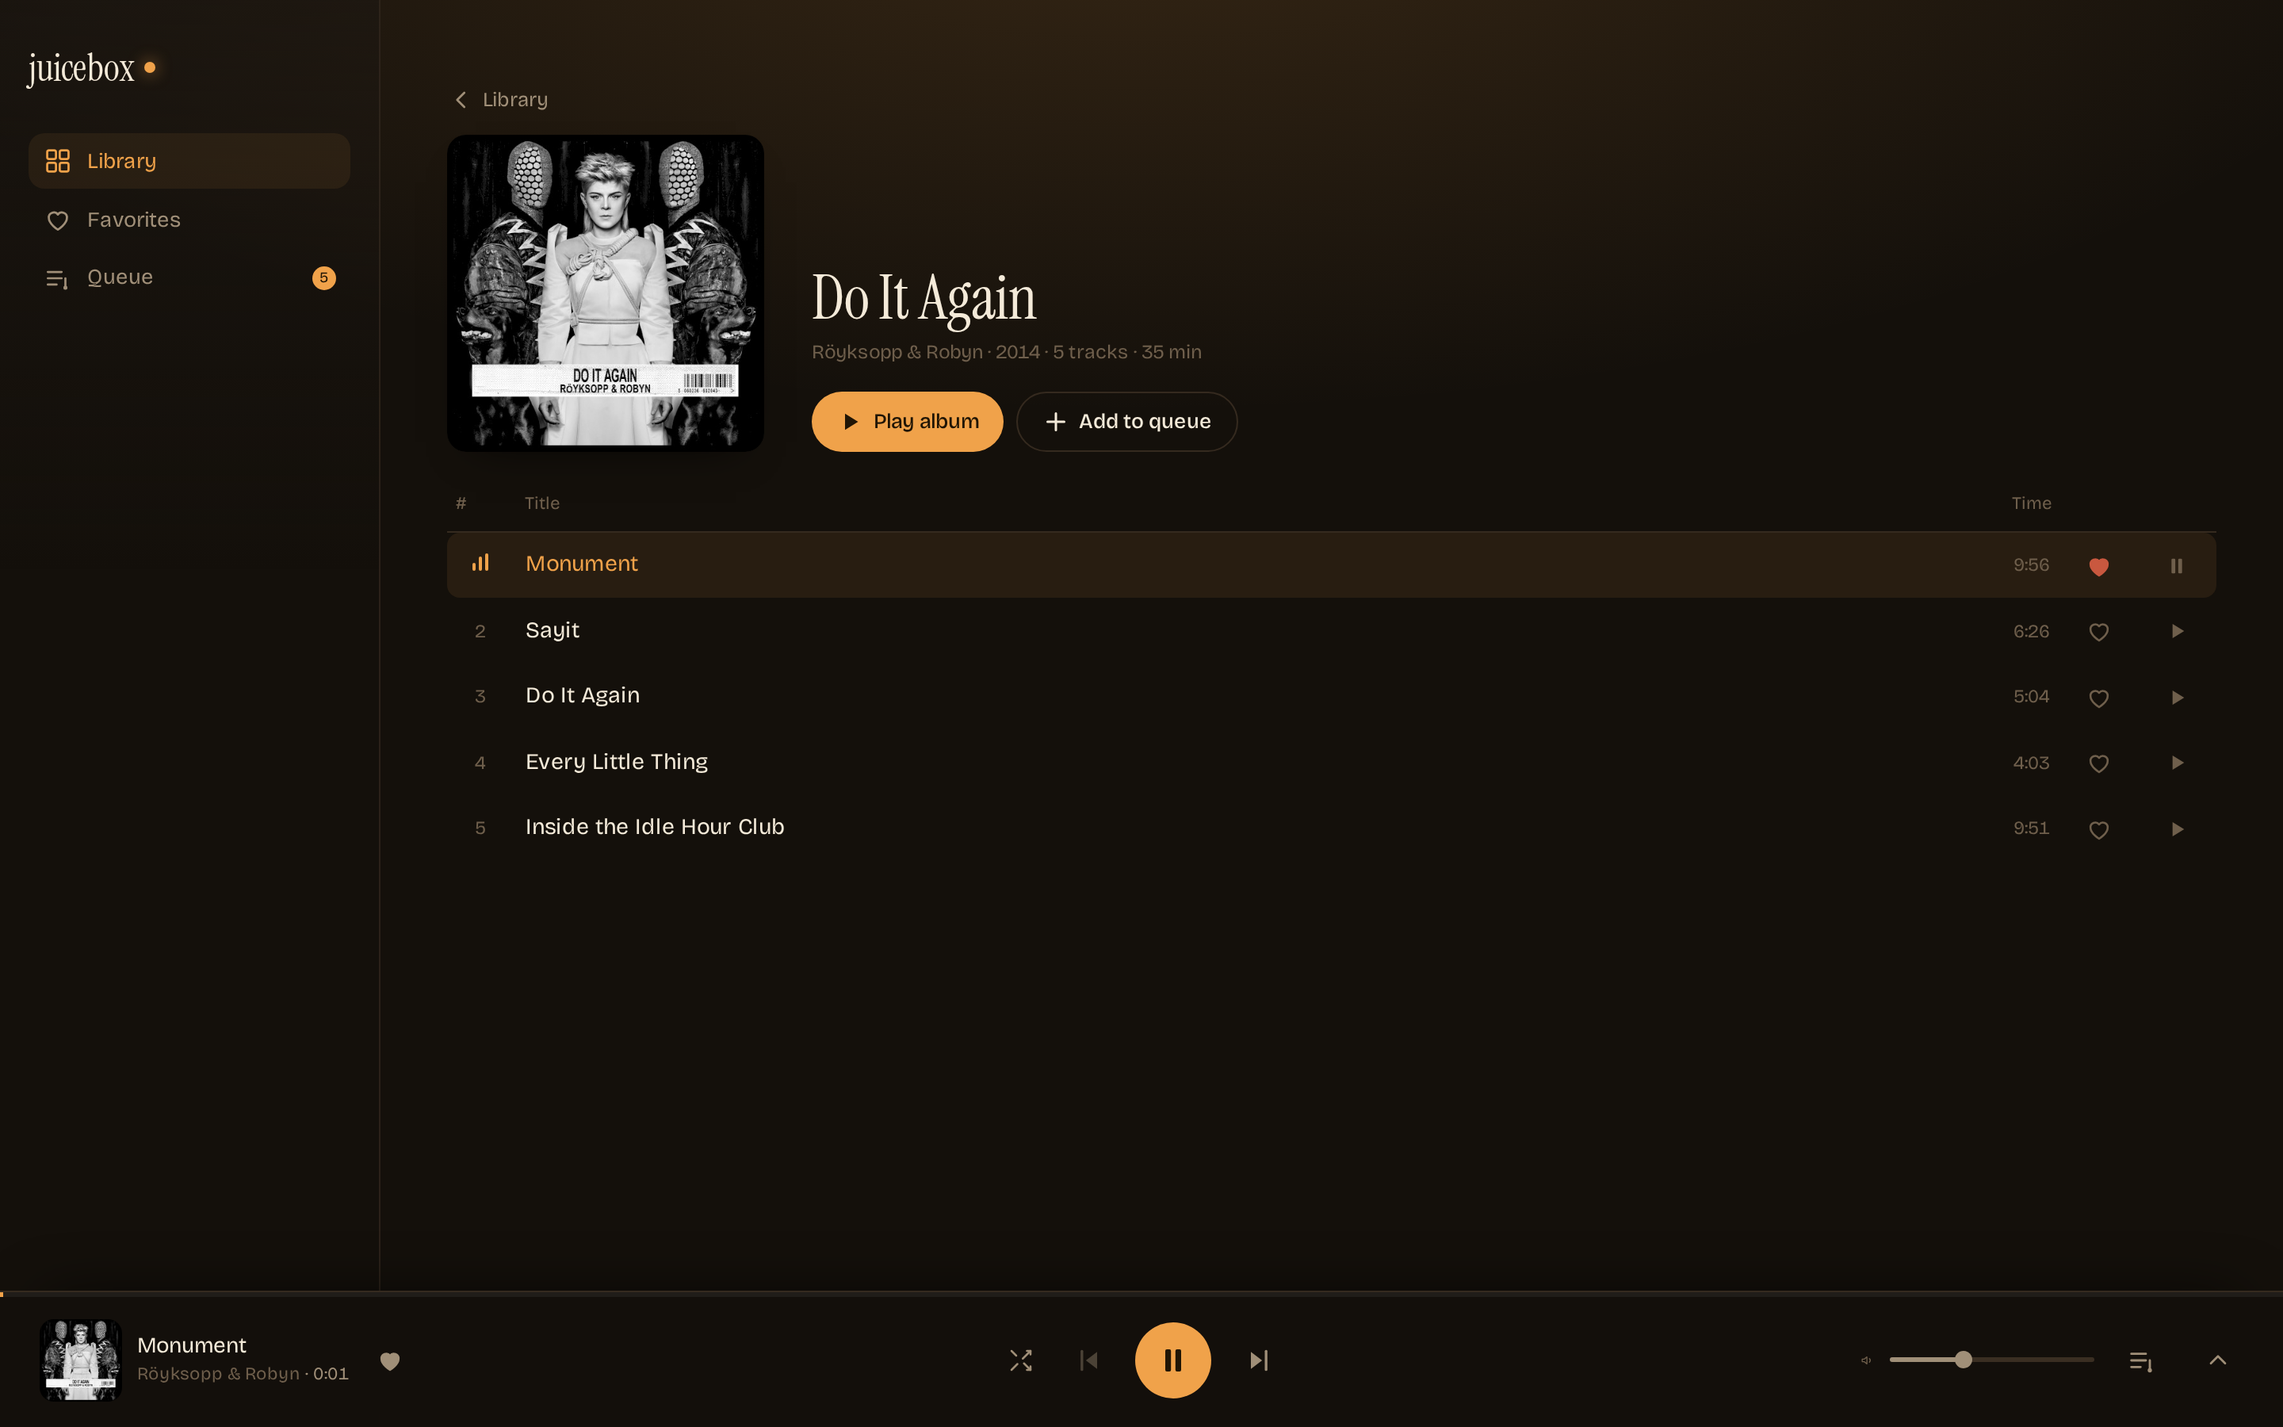
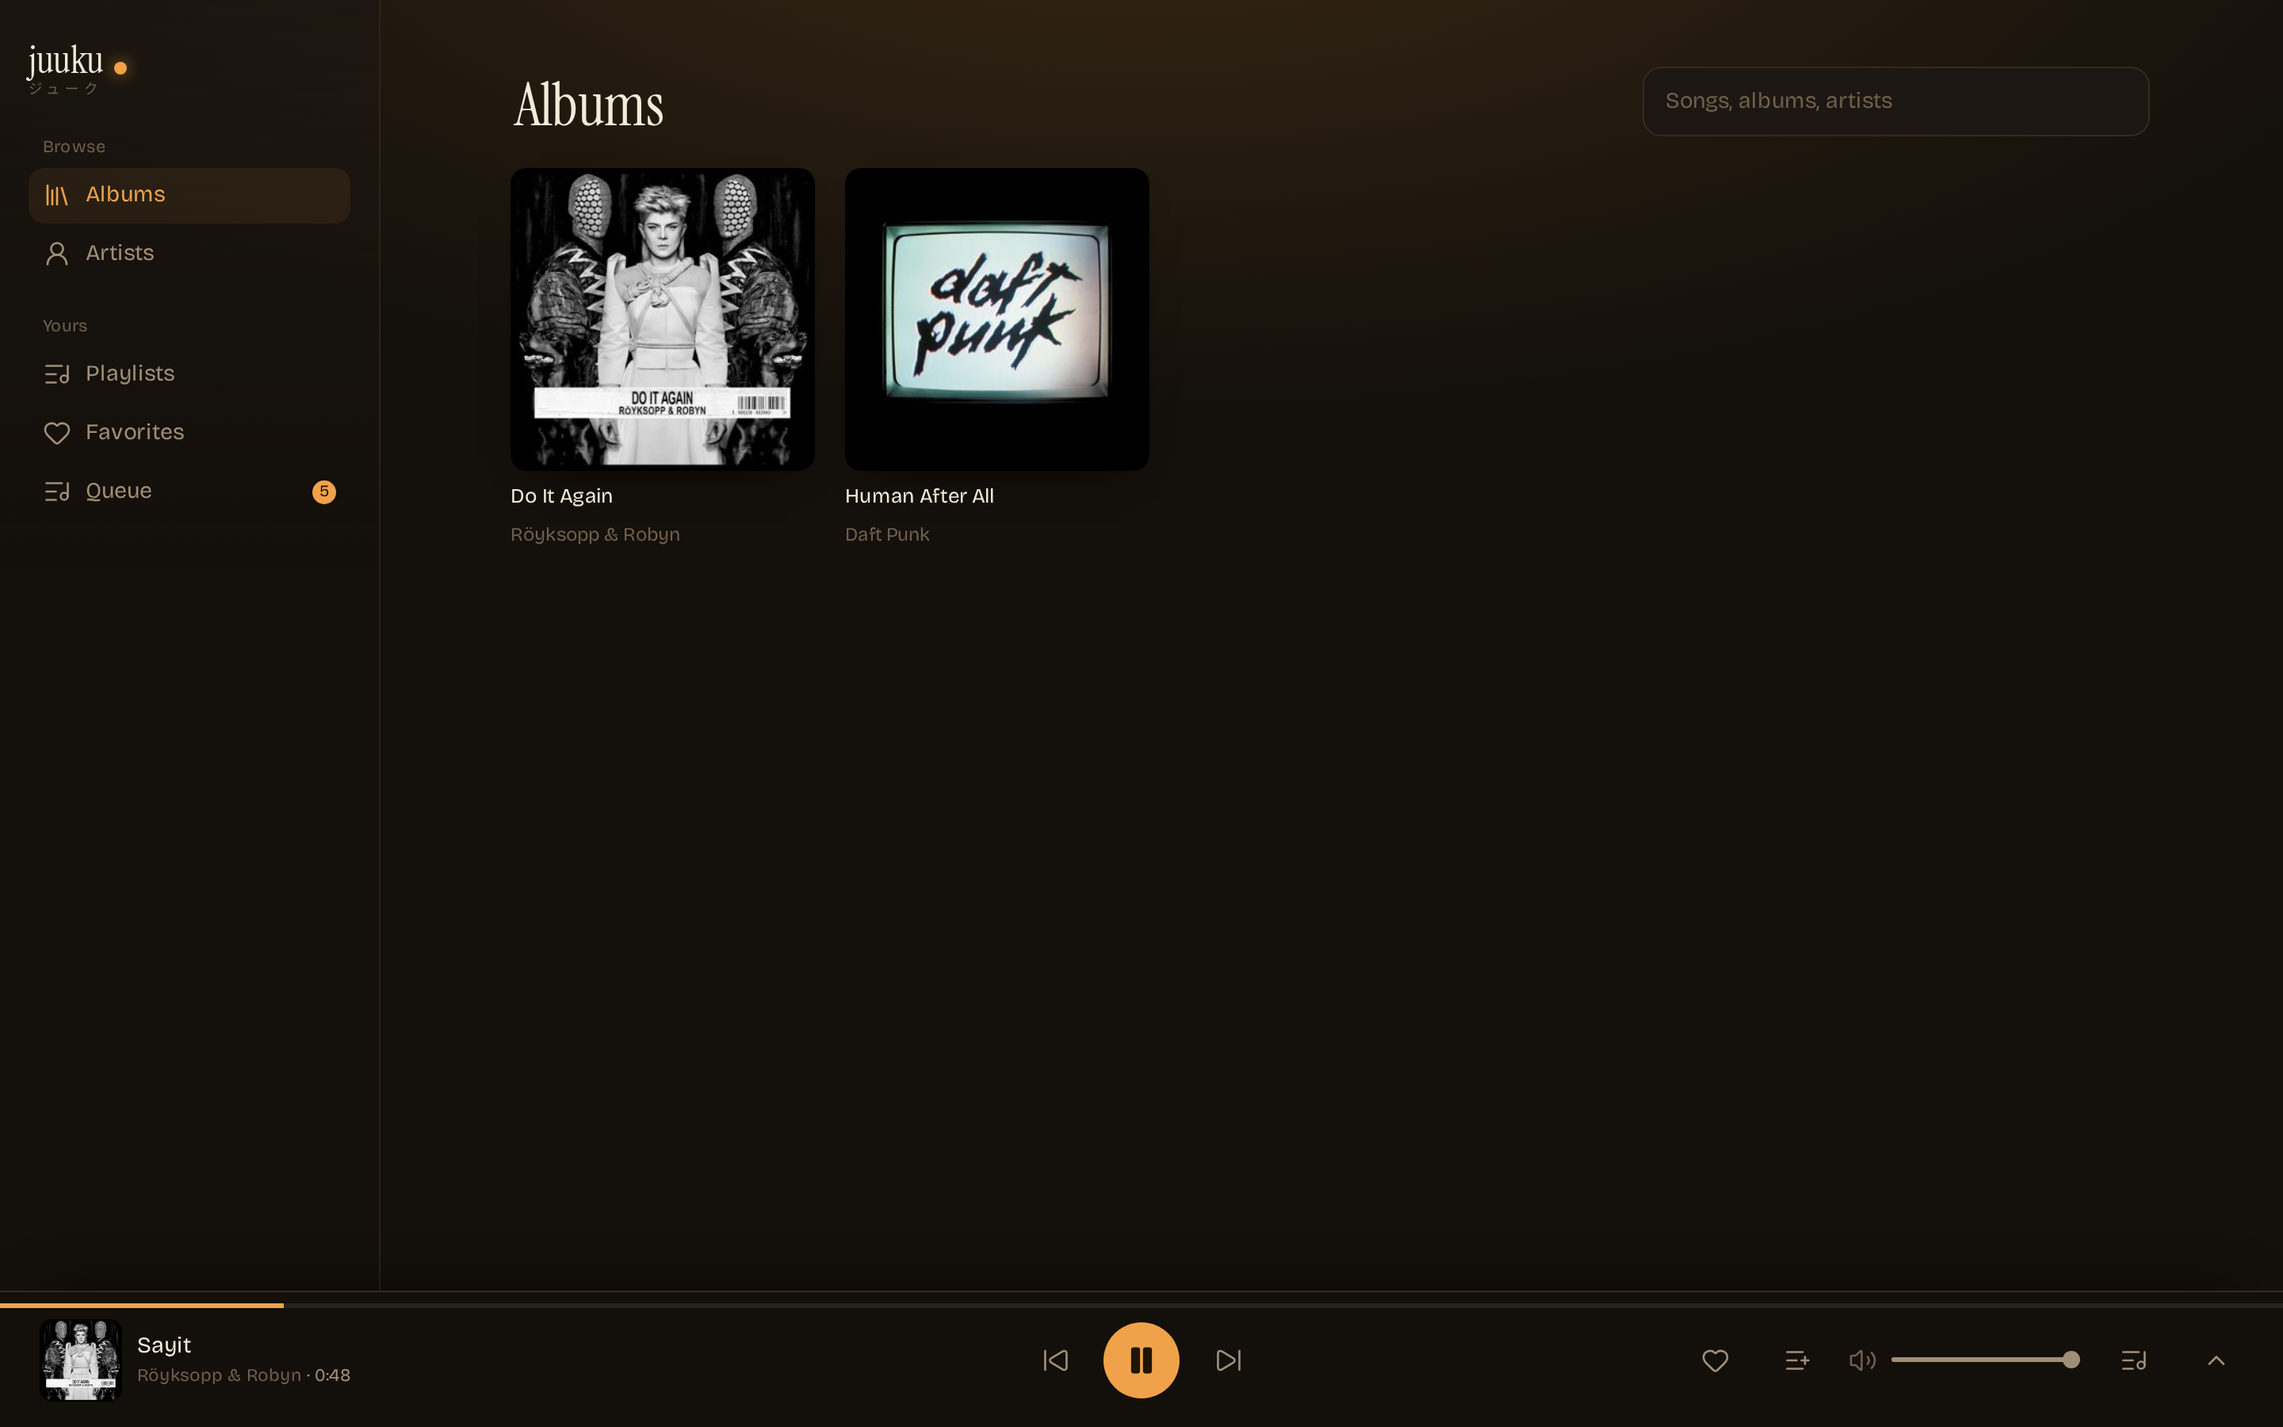
Rename to Juuku (ジューク)
Package, docs, scripts, compose project/container names, and the wordmark: latin
name over small letterspaced kana. Sandbox rebuilt under the new compose project
with a fresh admin password. The Pi user stays 'juicebox' - it exists there and
renaming it would mean recreating it.

diff --git a/src/App.tsx b/src/App.tsx
@@ -98,7 +98,12 @@ export default function App() {
     <div className={`shell ${isPlayer ? 'shell-player' : ''} ${lyricsOpen ? 'lyrics-open' : ''}`}>
       <aside className="rail" aria-label="Main">
         <button className="wordmark" onClick={() => navigate('/library/albums')}>
-          juicebox
+          <span className="wordmark-stack">
+            <span className="wordmark-latin">juuku</span>
+            <span className="wordmark-kana" lang="ja">
+              ジューク
+            </span>
+          </span>
           <span className={`led ${jbox.error ? 'bad' : jbox.health?.ok ? 'good' : ''}`} />
         </button>
 
@@ -142,7 +147,12 @@ export default function App() {
         {!isPlayer && (
           <div className="topbar">
             <button className="wordmark small" onClick={() => navigate('/library/albums')}>
-              juicebox
+              <span className="wordmark-stack">
+                <span className="wordmark-latin">juuku</span>
+                <span className="wordmark-kana" lang="ja">
+                  ジューク
+                </span>
+              </span>
               <span className={`led ${jbox.error ? 'bad' : jbox.health?.ok ? 'good' : ''}`} />
             </button>
             <button className="icon-button" onClick={jbox.refresh} aria-label="Refresh state">

diff --git a/src/styles.css b/src/styles.css
@@ -276,13 +276,37 @@ h1.display {
   display: inline-flex;
   align-items: center;
   gap: 0.45rem;
-  font-family: 'Instrument Serif', Georgia, serif;
-  font-size: 1.6rem;
   letter-spacing: -0.01em;
 }
 
-.wordmark.small {
+.wordmark-stack {
+  display: flex;
+  flex-direction: column;
+  align-items: flex-start;
+  line-height: 1;
+}
+
+.wordmark-latin {
+  font-family: 'Instrument Serif', Georgia, serif;
   font-size: 1.6rem;
+}
+
+.wordmark-kana {
+  margin-top: 0.18rem;
+  font-family: 'Bricolage Grotesque', ui-sans-serif, sans-serif;
+  font-size: 0.58rem;
+  font-weight: 500;
+  letter-spacing: 0.34em;
+  color: var(--dim);
+}
+
+.wordmark.small .wordmark-latin {
+  font-size: 1.35rem;
+}
+
+.wordmark.small .wordmark-kana {
+  font-size: 0.52rem;
+  letter-spacing: 0.3em;
 }
 
 .led {

diff --git a/index.html b/index.html
@@ -5,7 +5,7 @@
     <link rel="icon" href="/favicon.svg" type="image/svg+xml" />
     <meta name="viewport" content="width=device-width, initial-scale=1.0, viewport-fit=cover" />
     <meta name="theme-color" content="#14100b" />
-    <title>Juicebox — Navidrome remote</title>
+    <title>Juuku — Navidrome remote</title>
     <meta name="description" content="Queue, skip and favorite music on the Navidrome jukebox that is playing in the room." />
   </head>
   <body>

diff --git a/src/useJukebox.ts b/src/useJukebox.ts
@@ -16,7 +16,7 @@ import {
 } from './api';
 
 const POLL_MS = 1000;
-const REPEAT_KEY = 'juicebox.repeat';
+const REPEAT_KEY = 'juuku.repeat';
 
 export type RepeatMode = 'off' | 'all' | 'one';
 

diff --git a/docs/SETUP.md b/docs/SETUP.md
@@ -5,7 +5,7 @@
 | Port | What | Bound to |
 | --- | --- | --- |
 | 4533 | throwaway Navidrome (docker) | `127.0.0.1` |
-| 3101 | Juicebox API (and the built UI after `npm run build`) | `127.0.0.1` |
+| 3101 | Juuku API (and the built UI after `npm run build`) | `127.0.0.1` |
 | 3100 | Vite dev server (proxies `/api` → 3101) | `127.0.0.1` |
 
 8080 is **not** free on this machine — the Ghosted dev site owns it. That is why the app sits on 3100 (the usual port convention here) and the API on 3101.
@@ -16,34 +16,34 @@
 
 Verified through a real external hop (the Pi on the same LAN): `:3100` and `:3101/api/health` both answer 200, so firewalld already allows both ports. If a port is ever closed: `sudo firewall-cmd --add-port=3100/tcp` (add `--permanent` to survive a reload).
 
-There is **no authentication** in front of Juicebox, so on the LAN anyone can play, skip and rewrite the queue, and `/api/*` is open. Fine for a home network while this is a POC; not something to expose to the internet. The committed `.env.example` keeps `HOST=127.0.0.1` for that reason.
+There is **no authentication** in front of Juuku, so on the LAN anyone can play, skip and rewrite the queue, and `/api/*` is open. Fine for a home network while this is a POC; not something to expose to the internet. The committed `.env.example` keeps `HOST=127.0.0.1` for that reason.
 
 ## Pointing at another Navidrome (e.g. the main library)
 
 Read-only is fine: a server with jukebox mode off answers 501 for `jukeboxControl`, and the app shows no queue instead of failing. Credentials stay out of git:
 
 ```sh
-NAVIDROME_URL=http://10.10.10.10:4533 NAVIDROME_USER=juicebox NAVIDROME_PASSWORD=… \
+NAVIDROME_URL=http://10.10.10.10:4533 NAVIDROME_USER=juuku NAVIDROME_PASSWORD=… \
   ./scripts/remote-instance.sh 3102
 ```
 
-Environment variables win over `.env`, so the sandbox on `:3100` keeps running unchanged. On the Pi the `juicebox` user was created with `docker exec -it navidrome /app/navidrome user create --username juicebox --name Juicebox` (no password flag - it prompts twice, so it needs a TTY). Playback through that instance would need `Jukebox.Enabled`, `mpv` and an audio device on the Pi first.
+Environment variables win over `.env`, so the sandbox on `:3100` keeps running unchanged. On the Pi the `juuku` user was created with `docker exec -it navidrome /app/navidrome user create --username juuku --name Juuku` (no password flag - it prompts twice, so it needs a TTY). Playback through that instance would need `Jukebox.Enabled`, `mpv` and an audio device on the Pi first.
 
 ## The throwaway Navidrome
 
 Never point development at the Pi instance. `docker-compose.yml` runs a separate Navidrome with jukebox enabled:
 
-- container `juicebox-navidrome`, project `juicebox`
+- container `juuku-navidrome`, project `juuku`
 - `Jukebox.Enabled=true`, `MPVCmdTemplate` with `--ao=pulse` (real audio, see below)
 - `Jukebox.AdminOnly=true`
 - `mpv` is already inside the `navidrome/navidrome` image — nothing to install
-- volumes: `juicebox_navidrome-data` (`/data`) and `juicebox_navidrome-music` (`/music`)
+- volumes: `juuku_navidrome-data` (`/data`) and `juuku_navidrome-music` (`/music`)
 
 ```sh
 ./scripts/sandbox-up.sh
 ```
 
-The script starts the container, seeds the music volume from `sandbox/music` if empty, creates the first admin (`admin` / `juicebox` by default, via `/auth/createAdmin` — that endpoint only exists while the user table is empty), and forces a scan.
+The script starts the container, seeds the music volume from `sandbox/music` if empty, creates the first admin (`admin` / `juuku` by default, via `/auth/createAdmin` — that endpoint only exists while the user table is empty), and forces a scan.
 
 `sandbox/music` is gitignored: it holds two albums copied from the Pi library (Daft Punk — *Human After All*, Röyksopp — *Do It Again*, 15 tracks). Replace or extend them and re-run the script; `docker compose down -v` resets both volumes.
 
@@ -71,11 +71,11 @@ Consequences:
 ```
 NAVIDROME_URL=http://127.0.0.1:4533
 NAVIDROME_USER=admin
-NAVIDROME_PASSWORD=juicebox
+NAVIDROME_PASSWORD=juuku
 PORT=3101
 ```
 
-The sandbox password is not a secret — the container is bound to loopback and holds two albums. A real instance needs a real credential and, if it is ever exposed beyond the LAN, real auth in front of Juicebox itself.
+The sandbox password is not a secret — the container is bound to loopback and holds two albums. A real instance needs a real credential and, if it is ever exposed beyond the LAN, real auth in front of Juuku itself.
 
 ## Environment traps found while building this
 
@@ -87,10 +87,10 @@ The sandbox password is not a secret — the container is bound to loopback and 
 ## Verifying the jukebox without the UI
 
 ```sh
-PASS=juicebox; salt=$(head -c 8 /dev/urandom | od -An -tx1 | tr -d ' \n')
+PASS=juuku; salt=$(head -c 8 /dev/urandom | od -An -tx1 | tr -d ' \n')
 token=$(printf '%s%s' "$PASS" "$salt" | md5sum | cut -d' ' -f1)
-AUTH="u=admin&t=$token&s=$salt&v=1.16.1&c=Juicebox&f=json"
+AUTH="u=admin&t=$token&s=$salt&v=1.16.1&c=Juuku&f=json"
 curl -s "http://127.0.0.1:4533/rest/jukeboxControl?$AUTH&action=status"
 ```
 
-If jukebox is wired up, `docker logs juicebox-navidrome` says "Starting playback server" and "Using audio device: auto".
+If jukebox is wired up, `docker logs juuku-navidrome` says "Starting playback server" and "Using audio device: auto".

diff --git a/README.md b/README.md
@@ -1,8 +1,10 @@
-# Juicebox
+# Juuku <sub>ジューク</sub>
+
+*Juuku* is a jukebox with the middle knocked out — `ジューク` is how Japanese shortens `ジュークボックス`, and it keeps the old juicebox/jukebox pun in six letters.
 
 Remote control for [Navidrome](https://www.navidrome.org/)'s **jukebox mode**: browse the library, queue music, skip, pause, favorite and set the volume on the box that actually has the speakers, from any browser on the network.
 
-Navidrome's own web UI cannot drive the jukebox — the feature is only reachable through the Subsonic `jukeboxControl` endpoint. Juicebox is that remote.
+Navidrome's own web UI cannot drive the jukebox — the feature is only reachable through the Subsonic `jukeboxControl` endpoint. Juuku is that remote.
 
 ![Now playing, queue and library](docs/screenshot.png)
 
@@ -31,9 +33,9 @@ Open <http://127.0.0.1:3100>.
 
 ## How it talks to Navidrome
 
-Browser → Juicebox API → Subsonic `/rest/jukeboxControl` → Navidrome → `mpv` on that host.
+Browser → Juuku API → Subsonic `/rest/jukeboxControl` → Navidrome → `mpv` on that host.
 
-- Credentials stay server-side; the browser only sees Juicebox's own JSON.
+- Credentials stay server-side; the browser only sees Juuku's own JSON.
 - Auth is Subsonic salted token (`t=md5(password + salt)`), so the password never travels.
 - There is no push channel in the Subsonic API, so the UI polls `/api/state` once a second.
 - One queue, one device: Navidrome's jukebox has a single global playback queue. `Jukebox.AdminOnly` decides who may drive it.
@@ -48,8 +50,8 @@ Copy `.env.example` to `.env` and point it at the Navidrome you want to control:
 | --- | --- | --- |
 | `NAVIDROME_URL` | `http://127.0.0.1:4533` | Navidrome base URL |
 | `NAVIDROME_USER` | `admin` | User with jukebox permission |
-| `NAVIDROME_PASSWORD` | `juicebox` | That user's password (sandbox default) |
-| `PORT` | `3101` | Juicebox API port |
+| `NAVIDROME_PASSWORD` | `juuku` | That user's password (sandbox default) |
+| `PORT` | `3101` | Juuku API port |
 
 ## Layout
 

diff --git a/docs/ARCHITECTURE.md b/docs/ARCHITECTURE.md
@@ -4,7 +4,7 @@
 browser (React, polls 1/s)
    │  JSON over /api
    ▼
-Juicebox API (Node/Express, :3101)   ← holds the Subsonic credentials
+Juuku API (Node/Express, :3101)   ← holds the Subsonic credentials
    │  Subsonic REST + salted token
    ▼
 Navidrome (:4533)  ── IPC ──▶  mpv  ──▶  speakers on the Navidrome host
@@ -40,7 +40,7 @@ Navidrome's jukebox is not exposed by its own web UI. The only interface is Subs
 
 - Volume is `gain` (0–1, mpv software volume), not a device mixer, so loudness is relative.
 - One queue for everyone: two phones controlling at once are fighting over the same playlist. Guest queueing needs product decisions (voting, rate limits), not more API.
-- `AdminOnly` is a Navidrome-side switch. A guest-friendly mode means `ND_JUKEBOX_ADMINONLY=false` and Navidrome users flagged for jukebox, not a Juicebox concept.
+- `AdminOnly` is a Navidrome-side switch. A guest-friendly mode means `ND_JUKEBOX_ADMINONLY=false` and Navidrome users flagged for jukebox, not a Juuku concept.
 - Polling at 1s means up to a second of lag on a second phone's view; acceptable for control, would not be for synchronized lyrics — the lyrics highlight is driven by the same 1s status, so it can be a beat behind.
 - Seeking is `skip` with `index = currentIndex` and an `offset`, because Subsonic has no seek endpoint. It restarts the track at that position rather than scrubbing the existing stream, which is invisible on the server but does reset mpv's buffer.
 - The favorites playlist is a shared, append-only list: two phones favoriting at once is last-write-wins on the read side, but dedupe keeps it from growing duplicates.

diff --git a/docs/CHANGELOG.md b/docs/CHANGELOG.md
@@ -4,6 +4,8 @@ Newest first. Tags: **Feature**, **Fix**, **Break**.
 
 ## 2026-10-17
 
+- **Change** — the project is **Juuku** (`ジューク`): package name, README, docs, script and container names, and the wordmark now sets the latin name over the kana in small letterspaced type. Chosen after checking the old name was a live registered trademark (Juicebox App, Inc.), taken on npm, on all three domains, and used by five other music projects; `juuku` is free on npm with no projects using it. The sandbox was rebuilt under the new compose project, so its volumes and admin password (`juuku`) are fresh.
+
 - **Fix** — the artist initial sat low in its circle: a lone cap never centres by line box in Instrument Serif (its ascent/descent dominate), so the fallback now uses the UI face, flex-centred with `line-height: 1`.
 
 - **Feature** — browse-only mode: a Navidrome without jukebox mode answers **501** ("This endpoint is not implemented") for `jukeboxControl`, not just "Jukebox is disabled". `/api/state` now returns an empty queue in that case, so the library, playlists and search work against any Navidrome without an error strip; `/api/health` reports `jukebox.enabled: false`.

diff --git a/docs/INDEX.md b/docs/INDEX.md
@@ -1,10 +1,12 @@
-# Docs
+# Juuku docs
 
-Entry point for everything about Juicebox.
+*Juuku* (`ジューク`) — the jukebox, shortened.
+
+Entry point for everything about Juuku.
 
 | Doc | What's in it |
 | --- | --- |
-| [API.md](API.md) | Juicebox's own HTTP surface and how each call maps to Subsonic |
+| [API.md](API.md) | Juuku's own HTTP surface and how each call maps to Subsonic |
 | [ARCHITECTURE.md](ARCHITECTURE.md) | Pieces, data flow, and the decisions behind them |
 | [SETUP.md](SETUP.md) | Ports, the throwaway Navidrome, credentials, environment traps |
 | [CHANGELOG.md](CHANGELOG.md) | Dated Feature / Fix / Break entries |

diff --git a/docs/API.md b/docs/API.md
@@ -1,6 +1,6 @@
 # API
 
-Juicebox exposes a small JSON API on `:3101`. The browser never talks to Navidrome directly — the server holds the credentials and translates to Subsonic.
+Juuku exposes a small JSON API on `:3101`. The browser never talks to Navidrome directly — the server holds the credentials and translates to Subsonic.
 
 All responses are JSON except `/api/cover/:id` (image bytes). Errors are `{ "error": "message" }` with `400` (bad request), `401` (Navidrome rejected the credentials), `502` (Navidrome unreachable or refused) or `500`.
 
